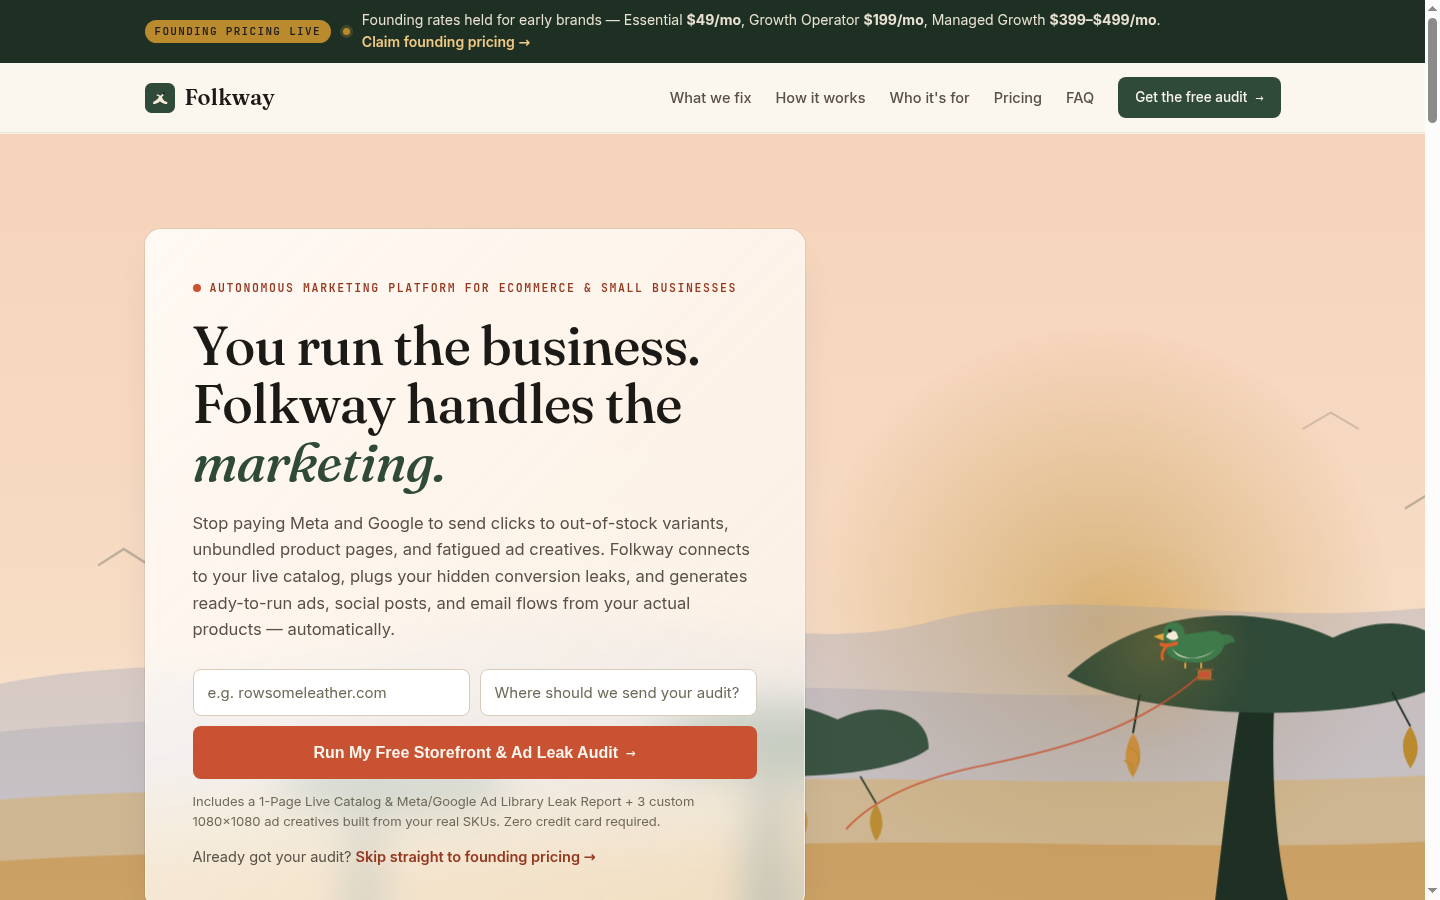
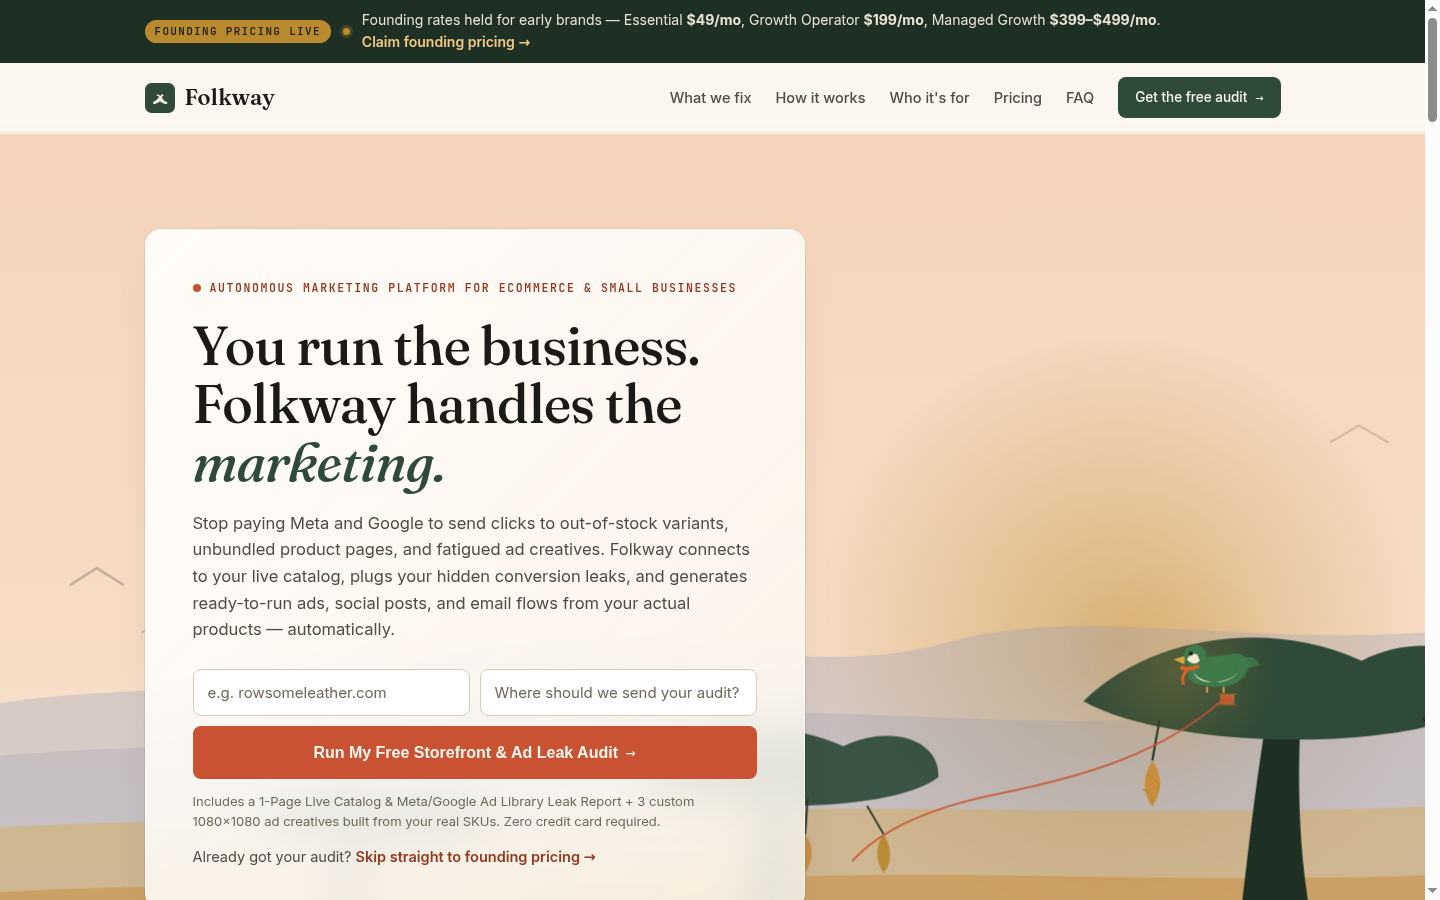
Gate fixes: show-at-rest sections, focus rings, contrast inks, mobile overflow, honest form endpoint

diff --git a/index.html b/index.html
@@ -1,5 +1,5 @@
 <!DOCTYPE html>
-<html lang="en" data-type="software" data-radius="soft" data-buttons="solid" data-motion="on">
+<html lang="en" data-type="software" data-radius="soft" data-buttons="solid">
 <head>
 <meta charset="UTF-8">
 <meta name="viewport" content="width=device-width, initial-scale=1">
@@ -19,7 +19,7 @@
 :root{
   --fw-paper:#FAF6EE; --fw-paper-warm:#F4EFE3; --fw-surface:#FFFFFF;
   --fw-mist-light:#F7F4ED; --fw-mist:#EDE7DA; --fw-mist-dark:#D6CCB9;
-  --fw-soil:#1C1A16; --fw-soil-soft:#24211C; --fw-text-2:#575147; --fw-text-muted:#6E6858;
+  --fw-soil:#1C1A16; --fw-soil-soft:#24211C; --fw-text-2:#514B42; --fw-text-muted:#6E6858;
   --fw-field:#2F4A38; --fw-field-light:#E5EBE6; --fw-field-dark:#1E3024;
   --fw-clay:#C85232; --fw-clay-light:#F6E6DF; --fw-clay-dark:#943820;
   --fw-harvest:#B98A2E; --fw-harvest-light:#F5EBD5; --fw-harvest-dark:#785616;
@@ -102,7 +102,7 @@ nav.main .btn{padding:9px 16px;font-size:13.5px;color:#FAF6EE}
 .hero-scene{position:absolute;inset:0;width:100%;height:100%}
 .hero-scene svg{width:100%;height:100%;object-fit:cover}
 .hero .wrap{position:relative;z-index:2;width:100%;display:flex;flex-direction:column;padding-bottom:0}
-.hero-card{width:min(660px,100%);margin:96px 0 0;background:linear-gradient(135deg,rgba(255,255,255,.86),rgba(250,246,238,.72));backdrop-filter:blur(20px) saturate(140%);-webkit-backdrop-filter:blur(20px) saturate(140%);border-radius:16px;box-shadow:0 0 0 1px rgba(255,255,255,.55) inset,0 0 0 1px rgba(36,33,28,.08),0 20px 44px -20px rgba(36,33,28,.16);padding:44px 48px 40px}
+.hero-card{width:min(660px,100%);margin:96px 0 0;background:linear-gradient(135deg,rgba(255,255,255,.93),rgba(250,246,238,.88));backdrop-filter:blur(20px) saturate(140%);-webkit-backdrop-filter:blur(20px) saturate(140%);border-radius:16px;box-shadow:0 0 0 1px rgba(255,255,255,.55) inset,0 0 0 1px rgba(36,33,28,.08),0 20px 44px -20px rgba(36,33,28,.16);padding:44px 48px 40px}
 @media (prefers-color-scheme:dark){.hero-card{background:linear-gradient(135deg,rgba(38,43,37,.92),rgba(32,36,30,.86));box-shadow:0 0 0 1px rgba(246,235,216,.09) inset,0 0 0 1px rgba(0,0,0,.35),0 24px 48px -20px rgba(0,0,0,.5)}}
 .eyebrow{display:inline-flex;align-items:center;gap:9px;font-family:var(--ff-mono);font-size:11.5px;font-weight:600;letter-spacing:.14em;color:var(--fw-clay-dark);text-transform:uppercase}
 .eyebrow::before{content:"";width:8px;height:8px;border-radius:50%;background:var(--fw-clay);flex:none}
@@ -122,7 +122,8 @@ nav.main .btn{padding:9px 16px;font-size:13.5px;color:#FAF6EE}
 .audit-alt a{font-weight:600}
 .audit-ok{display:none;background:var(--fw-verified-bg);border:1px solid var(--fw-verified-border);color:var(--fw-verified-ink);border-radius:10px;padding:16px 18px;font-size:15px;margin-top:8px}
 .audit-fail{display:none;margin-top:10px;font-size:13.5px;color:var(--fw-alert-ink)}
-.trust{margin-top:34px;padding:18px 0 26px;border-top:1px solid var(--fw-harvest);display:flex;gap:28px;flex-wrap:wrap;align-items:center}
+.trust{margin-top:34px;padding:18px 22px 22px;max-width:660px;background:linear-gradient(135deg,rgba(255,255,255,.9),rgba(250,246,238,.82));backdrop-filter:blur(16px) saturate(130%);-webkit-backdrop-filter:blur(16px) saturate(130%);border-radius:12px;box-shadow:0 0 0 1px rgba(255,255,255,.5) inset,0 0 0 1px rgba(36,33,28,.06);display:flex;gap:28px;flex-wrap:wrap;align-items:center}
+@media (prefers-color-scheme:dark){.trust{background:linear-gradient(135deg,rgba(38,43,37,.92),rgba(32,36,30,.86));box-shadow:0 0 0 1px rgba(246,235,216,.09) inset,0 0 0 1px rgba(0,0,0,.35)}}
 .trust li{list-style:none;display:flex;align-items:center;gap:9px;font-family:var(--ff-mono);font-size:12px;letter-spacing:.02em;color:var(--fw-text-2)}
 .trust li::before{content:"";width:7px;height:7px;border-radius:50%;background:var(--fw-field);flex:none}
 
@@ -133,9 +134,9 @@ nav.main .btn{padding:9px 16px;font-size:13.5px;color:#FAF6EE}
 .hero-card{animation:plane-in .9s ease-out 1.15s both}
 .trust{animation:plane-in .9s ease-out 1.4s both}
 
-/* section rise (transform only, once each) */
-.rise{transform:translateY(16px);transition:transform .45s cubic-bezier(.2,.7,.3,1)}
-.rise.seen{transform:none}
+/* sections rest in place: shown at rest, no scroll-reveal (taste law) */
+:focus-visible{outline:2px solid var(--fw-clay);outline-offset:2px;transition:none}
+input:focus-visible,textarea:focus-visible{outline:2px solid var(--fw-clay);outline-offset:2px;transition:none}
 
 /* ---------- sections ---------- */
 section.block{padding:104px 0}
@@ -214,7 +215,7 @@ section.block>.lede{margin-top:14px;font-size:17px;color:var(--fw-text-2);max-wi
 .guarantee{background:var(--fw-paper)}
 .stamp-card{margin:48px auto 0;max-width:860px;background:var(--fw-surface);border:1px solid var(--fw-mist-dark);outline:1px solid var(--fw-mist-dark);outline-offset:5px;border-radius:10px;padding:46px 50px;position:relative}
 .stamp{position:absolute;top:22px;right:26px;transform:rotate(6deg);border:2px solid var(--fw-clay);color:var(--fw-clay-dark);font-family:var(--ff-mono);font-size:11px;letter-spacing:.18em;padding:6px 12px;border-radius:6px;opacity:.85}
-.stamp-card h3{font-family:var(--ff-display);font-weight:500;font-size:26px;line-height:1.25;color:var(--fw-soil);max-width:24ch}
+.stamp-card h3{font-family:var(--ff-display);font-weight:500;font-size:21px;line-height:1.3;color:var(--fw-soil);max-width:24ch}
 .stamp-card p{margin-top:16px;font-size:15.5px;line-height:1.68;color:var(--fw-text-2)}
 .signoff{margin-top:26px;display:flex;align-items:center;gap:14px}
 .signoff svg{width:64px;height:22px;opacity:.75}
@@ -256,7 +257,9 @@ footer.site a:hover{color:#F0C983}
   .hero-scene{position:absolute;top:0;left:0;right:0;bottom:auto;height:460px}
   .hero-card{margin:400px 0 0;padding:30px 26px 28px;backdrop-filter:blur(24px)}
   .audit-grid{grid-template-columns:1fr}
-  .leak-grid{grid-template-columns:1fr}
+  .leak-grid{grid-template-columns:minmax(0,1fr)}
+  .leak-card{min-width:0;max-width:100%;overflow:hidden}
+  .leak-card :is(img,svg,pre,code){max-width:100%}
   .profile,.profile:nth-child(even){grid-template-columns:1fr;gap:18px;padding:32px 12px}
   .profile:nth-child(even) .p-art{order:0}
   .p-art{max-width:200px}
@@ -277,6 +280,10 @@ footer.site a:hover{color:#F0C983}
 @media (max-width:390px){
   .wrap{padding:0 20px}
   .hero-card{margin-top:340px}
+  .trust{margin-bottom:18px}
+  .stamp{position:static;display:inline-block;transform:rotate(-2deg);margin:0 0 12px}
+  .stamp-card h3{max-width:none}
+  .lt-cta .btn{width:100%;box-sizing:border-box;white-space:normal}
 }
 @media (prefers-reduced-motion:reduce){
   *,*::before,*::after{animation:none!important;transition:none!important}
@@ -406,7 +413,7 @@ footer.site a:hover{color:#F0C983}
       <h1>You run the business. Folkway handles the <em>marketing.</em></h1>
       <p class="sub">Stop paying Meta and Google to send clicks to out-of-stock variants, unbundled product pages, and fatigued ad creatives. Folkway connects to your live catalog, plugs your hidden conversion leaks, and generates ready-to-run ads, social posts, and email flows from your actual products — automatically.</p>
 
-      <form class="audit" id="audit" action="#" method="post" novalidate>
+      <form class="audit" id="audit" action="#" method="post" novalidate data-endpoint="https://formsubmit.co/ajax/alvin@zentinel.dev">
         <div class="audit-grid">
           <div>
             <label for="store-url">Your store URL</label>
@@ -731,17 +738,7 @@ footer.site a:hover{color:#F0C983}
 
 <script>
 (function(){
-  var reduced = window.matchMedia('(prefers-reduced-motion: reduce)').matches;
-
-  /* section rise: transform-only, once each */
-  if (!reduced && 'IntersectionObserver' in window) {
-    var io = new IntersectionObserver(function(entries){
-      entries.forEach(function(e){ if (e.isIntersecting){ e.target.classList.add('seen'); io.unobserve(e.target); } });
-    }, {threshold:.12, rootMargin:'0px 0px -8% 0px'});
-    document.querySelectorAll('.rise').forEach(function(el){ io.observe(el); });
-  } else {
-    document.querySelectorAll('.rise').forEach(function(el){ el.classList.add('seen'); });
-  }
+  /* sections rest in place: no scroll-reveal transforms (taste law: show at rest) */
 
   /* mobile menu */
   var mb = document.querySelector('.menu-btn'), nv = document.getElementById('sitenav');
